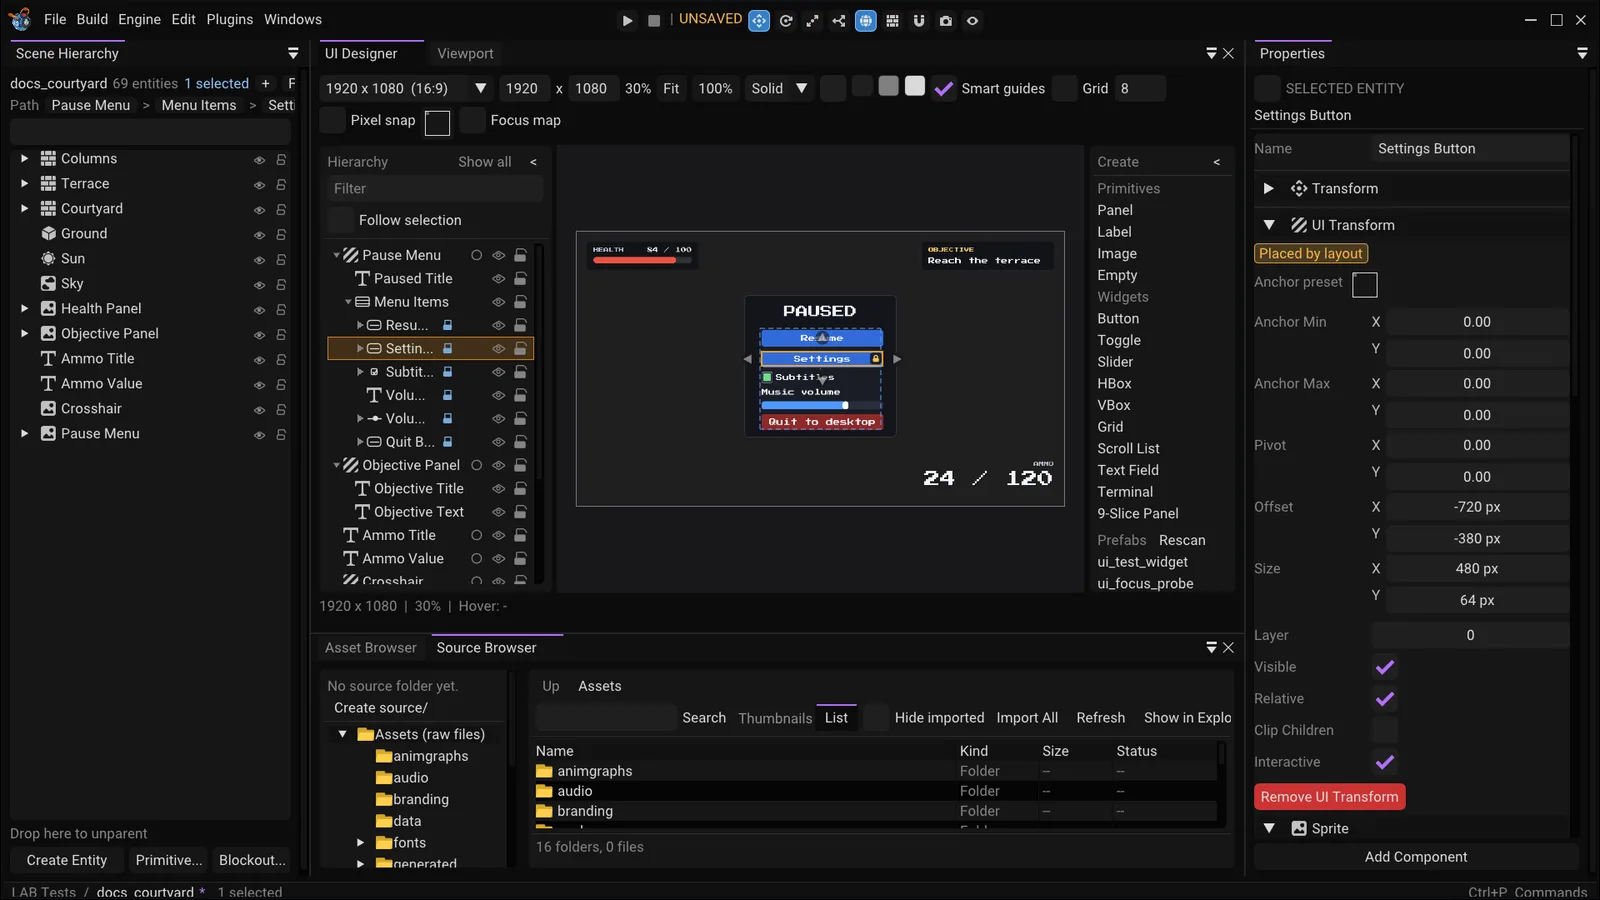
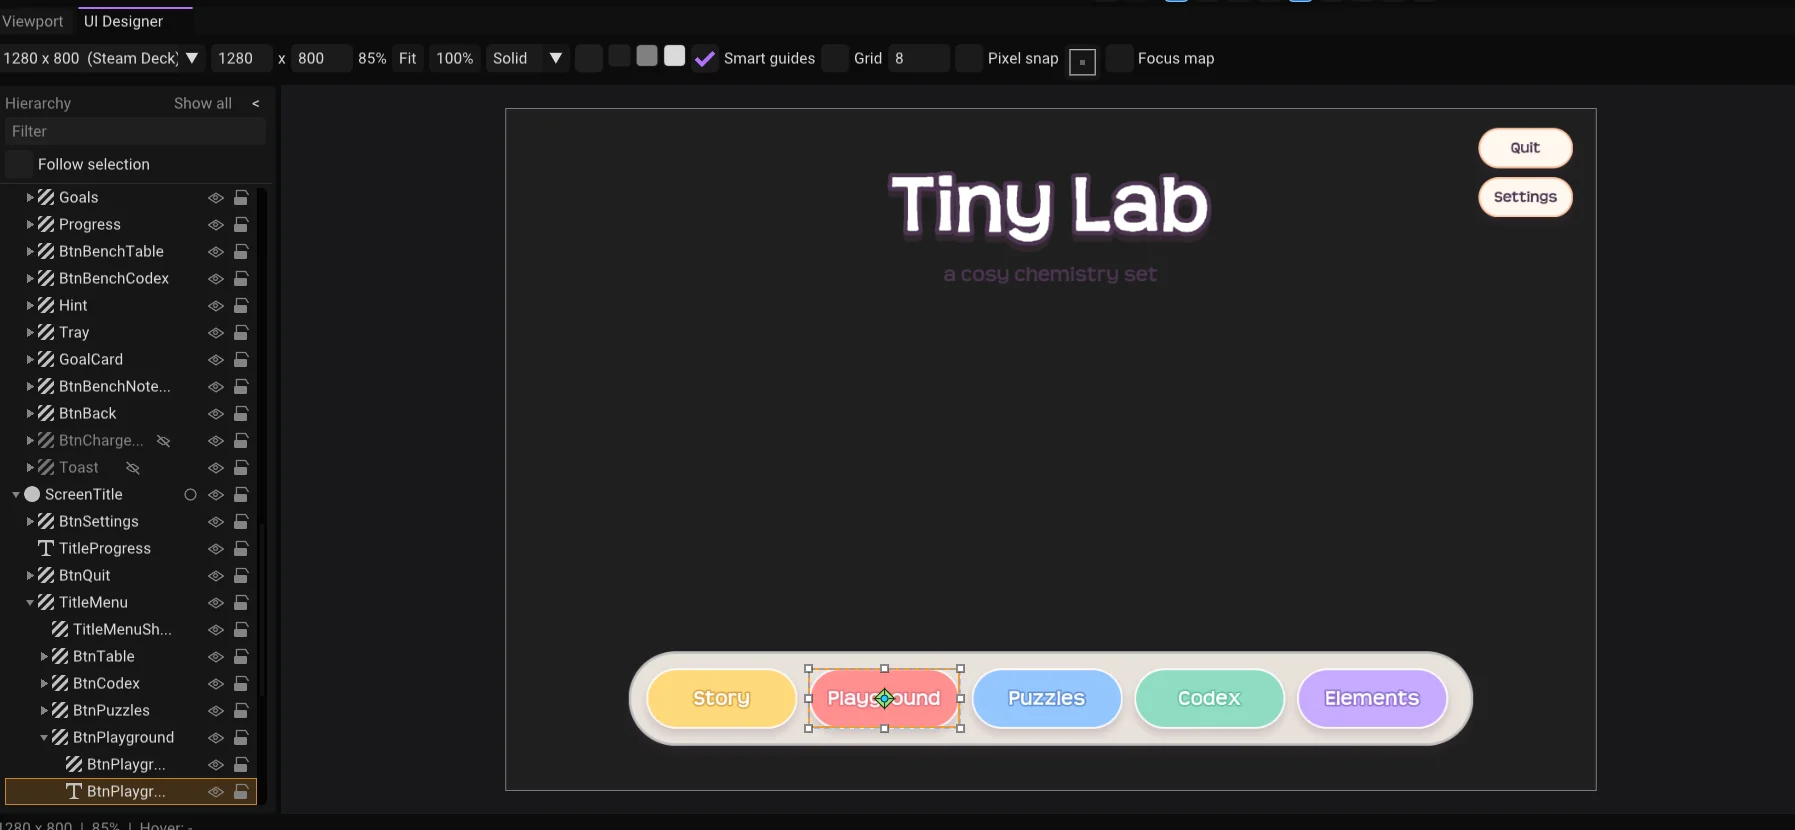
Add editor UI screenshots to the manual (batch 1)
Menus, panels, popups and inspectors where the text explains how to
use them: the File, Build, Engine, Edit, Windows and Plugins menus;
the Performance and Diagnostics panels; the viewport toolbar, Camera
and Overlays popups; the Command Palette and Keyboard Shortcuts; the
Scene Hierarchy menu, Asset Browser Engine tab, Add Component list,
Project Settings and Editor Settings (AI Agents, Network); the
Directional Light, UI Transform and UI Button inspectors; the anchor
preset picker; the Node Graph and its Add Node menu; the Blockout
Tools panel; and a particle emitter. Replace the UI Designer overview
with a title screen being laid out.

diff --git a/content/01-getting-started/02-editor.md b/content/01-getting-started/02-editor.md
@@ -22,6 +22,9 @@ command.
 
 ### File
 
+![The File menu open](images/file-menu.webp)
+*The File menu.*
+
 | Item | Notes |
 |---|---|
 | New Project… / Open Project… | See [Projects & Builds](../07-projects-and-tools/01-projects-and-builds.md) |
@@ -80,11 +83,17 @@ opens. A `latest.Lscene` left by an older editor is offered once and then moved 
 
 ### Build
 
+![The Build menu open: Build Standalone, Game Module and Input Actions](images/build-menu.webp)
+*The Build menu.*
+
 **Build Standalone…** packages the runtime, the compiled shaders and your project's assets
 into a folder that runs without the editor. Covered in
 [Projects & Builds](../07-projects-and-tools/01-projects-and-builds.md).
 
 ### Engine
+
+![The Engine menu open: Reload Shaders and a ticked Ray Tracing item](images/engine-menu.webp)
+*The Engine menu.*
 
 - **Reload Shaders** — rebuilds every pipeline from the `.spv` files on disk. It reads
   SPIR-V and does *not* invoke a compiler, so run `scripts/Build-Shaders.ps1` first. A file
@@ -96,6 +105,9 @@ into a folder that runs without the editor. Covered in
   panel you open to *measure* into one that changes what it measures.
 
 ### Edit
+
+![The Edit menu open: Undo Delete Entity, Redo, Copy, Duplicate, Delete and Paste with their shortcuts](images/edit-menu.webp)
+*The Edit menu. Undo and Redo name the action they apply to.*
 
 Undo, Redo, Copy, Duplicate, Delete, Paste. The Undo and Redo entries name what they will
 actually undo ("Undo Move Entity"), which is usually faster than guessing. **Editing is
@@ -130,6 +142,9 @@ Every panel toggle lives here, plus two commands that just open rather than togg
 - **ImGui Demo** — the vendored ImGui's own demo window. Not part of LAB; useful only for
   seeing what a widget looks like in isolation.
 
+![The Windows menu open, with ticks beside the open panels](images/windows-menu.webp)
+*The Windows menu: a tick marks each panel that is open.*
+
 ## The Performance panel
 
 Frame time (current, average, median, 99th percentile — the one that actually predicts a
@@ -138,6 +153,9 @@ two CPU stalls in `BeginFrame`, draw calls and triangle counts, cache sizes (mat
 descriptor sets, cached textures, shared meshes), and render target resolution. **Copy
 report** puts all of it on the clipboard as text, for comparing two runs without retyping
 numbers off the screen.
+
+![The Performance panel showing frame-time numbers, a frame-time graph, GPU pass timings, CPU waits, submission and scene counts](images/performance-panel.webp)
+*The Performance panel: frame-time percentiles and graph, then GPU passes, CPU waits, submission and scene counts.*
 
 **Turn VSync off before you believe any number here.** With it on, everything looks free
 because the frame is waiting on the display either way — see Diagnostics, below.
@@ -152,6 +170,9 @@ six. Invaluable when something looks wrong and you cannot tell whether the fault
 geometry, normals or lighting — see [Troubleshooting](../07-projects-and-tools/05-troubleshooting.md).
 
 ## The Diagnostics panel
+
+![The Diagnostics panel with Presentation, Capture and Editor state expanded](images/diagnostics-panel.webp)
+*The Diagnostics panel: Presentation, Capture (screenshot and video recording), GI Reference, Steam and Editor state.*
 
 - **Presentation** — **VSync** (off is what you want before judging any renderer change;
   on is the default and pins the frame rate to the display refresh) and **HDR10 output**
@@ -215,6 +236,9 @@ Drag a row onto another to reparent it. Right-click a row for:
 - **Save as Object…** — write this entity and its children out as a reusable `.Lobj`
 - **Delete Entity**
 
+![The Scene Hierarchy with a right-click menu open on a row: Add Child, Open Mesh in Blender, Save as Object and Delete Entity](images/scene-hierarchy-menu.webp)
+*Right-click a row for its menu. This entity is at the root, so the menu has no Unparent.*
+
 Toggle with `F5`.
 
 ### Properties
@@ -244,6 +268,9 @@ the tree choose which tree that is:
   Blender entries are not offered, and a script or an MCP tool that tries the same is refused the same way.
   **Duplicate to Project** (the context menu, or Paste after Copy) copies a file or a folder into the
   project's current folder as assets of their own, with new GUIDs, so you can change them.
+
+![The Asset Browser on its Engine tab, in Thumbnails view, showing the Capsule, Cone, Cube, Cylinder, Plane and Sphere meshes](images/asset-browser-engine.webp)
+*The Asset Browser's Engine tab: the primitives that ship with the engine, read-only.*
 
 Each tab remembers the folder it was in. Favourites and recent assets work in both; an engine item is
 remembered as its `engine:` reference. **It lists only native assets** — the things the engine actually loads
@@ -283,6 +310,9 @@ dropped onto a slot is stored as an `engine:` reference, never as a file path (s
 Toggle with `F2`.
 
 ### Project Settings
+
+![The Project Settings window: a category list on the left and the General page on the right](images/project-settings.webp)
+*Project Settings: the categories on the left, the General page on the right.*
 
 Project name and version, the asset directory, the start scene, **scene physics** (gravity,
 gravity scale, terminal velocity), the standalone build's executable name, the runtime

diff --git a/content/01-getting-started/03-viewport.md b/content/01-getting-started/03-viewport.md
@@ -28,6 +28,9 @@ for the editor camera: increase it to lift a dark HDR scene, or lower it to pres
 highlights. It affects editor view only; Play mode uses the exposure on the active scene
 camera.
 
+![The Camera Settings popup: FOV Degrees, Near Clip, Far Multiplier, Exposure, Camera Position with Copy and Paste Position, and Movement Speed](images/camera-popup.webp)
+*The Camera popup: lens, Exposure, the camera's position (with Copy Position and Paste Position) and Movement Speed.*
+
 ## Selecting
 
 | Gesture | Result |
@@ -116,6 +119,9 @@ The transform gizmo appears on the primary selection.
 (The gizmo uses `T`/`R`/`Y` rather than the more usual `W`/`E`/`R` because `W` and `A`/`S`/`D`
 are the camera.)
 
+![The viewport toolbar: Play and Stop, then the gizmo, snapping, Camera and Overlays buttons](images/viewport-toolbar.webp)
+*The viewport toolbar. Play and Stop come first; the buttons after them set the gizmo mode and frame, snapping, and open the Camera and Overlays popups.*
+
 **Local / World** switches the gizmo's frame. The gizmo always *manipulates* in world space,
 so dragging a child moves it where the mouse says rather than in its parent's rotated frame;
 what gets stored is still a local transform, rebased against the parent.
@@ -154,6 +160,9 @@ overlay left on is not a silent surprise — opens a popup with:
   width. It draws through occluders on purpose, so you can see a selection behind a wall;
   turn it off when you are lining up a shot. The setting is stored per user and survives a
   restart.
+
+![The Overlays popup: switches for Grid, Splines, Blockout brushes, Colliders, Skeletons, DDGI volume and probes, Acoustic Rays and NavMesh, then Debug views, Selection outline settings and Entity icons](images/overlays-popup.webp)
+*The Overlays popup: the overlay switches, a debug view, the selection outline and the entity icons.*
 
 ## Dropping assets
 

diff --git a/content/02-building-worlds/02-components.md b/content/02-building-worlds/02-components.md
@@ -435,6 +435,9 @@ A stream or burst of camera-facing billboarded quads — smoke, sparks, a muzzle
 Particles only simulate while playing, exactly like physics, so nothing moves until you
 press Play.
 
+![A textured particle emitter spraying an arc of particles over two ramps](images/particle-emitter.webp)
+*A Particle Emitter with a texture, while playing.*
+
 | Field | Default | Meaning |
 |---|---|---|
 | Enabled | on | A paused emitter keeps whatever particles already exist but spawns no more |
@@ -1213,6 +1216,9 @@ Slider, Terminal and layout containers in [UI Widgets](../05-ui/03-ui-widgets.md
 [Blockout Tools](05-blockout-tools.md).
 
 ## Adding a component
+
+![The Add Component list: rendering components, Script, physics components, UI components, lights, audio, particles, splines and blockout](images/add-component-menu.webp)
+*The Add Component list, grouped by kind.*
 
 **Properties → Add Component** offers, in this order: Mesh Component, Native Script, Skeletal Mesh Component, Animator Component, AI Controller, Socket Attachment Component, Ragdoll Component, Morph Targets, Material Component, Camera Component, Renderer Settings, DDGI Volume, Reflection Capture, Scene Capture, NavMesh Volume, Nav Link, Script, Rigid Body, Collider, Constraint, Character Controller, Nav Agent, UI Transform, Sprite, Text, UI Line, UI Button, UI Toggle, UI Slider, UI Scroll List, UI Scrollbar, UI Focus, UI Focus Scope, UI Text Field, UI Terminal, UI Layout, UI Layout Element, Ambient Light, Sky, HDRI Environment, Fog, Directional Light, Point Light, Spot Light, Persistent, Network Identity, Audio Source, Audio Listener, Particle Emitter, Spline, Spline Mesh, Blockout Model, Blockout Brush, Blockout Operation. Most items are hidden once the entity already has that component, since
 adding one replaces it with a fresh default; a few (Constraint, Character Controller) are also

diff --git a/content/05-ui/01-hud.md b/content/05-ui/01-hud.md
@@ -73,6 +73,9 @@ The three panels that matter:
 - **Text** holds the multi-line Text box (Enter starts a new line), Color, Font Size, Alignment,
   Vertical, Wrap, Rich Text, Line Spacing, Outline, Outline Color, Shadow Offset and Shadow Color.
 
+![A UI Transform in Properties: Anchor preset, Anchor Min, Anchor Max, Pivot, Offset, Size, Layer, and the Visible, Relative, Clip Children and Interactive toggles, with a Sprite below](images/ui-transform-inspector.webp)
+*A UI Transform anchored to the top-right corner (Anchor Min and Max at 1, 0), with its Sprite below.*
+
 ## UI Transform
 
 | Field | Default | Meaning |
@@ -151,6 +154,9 @@ the grid, which is remembered between elements:
 | Keep rect | stays exactly where it is on screen | preset's | unchanged | recomputed to compensate |
 | Keep rect + set pivot | stays where it is | preset's | preset's | recomputed |
 | Snap | moves to the preset | preset's | preset's | zeroed; a point axis keeps its Size, a stretched one fills the anchor span |
+
+![The sixteen anchor presets in a grid with Keep rect, Keep rect + set pivot and Snap underneath; hovering one shows its name, Center Right](images/anchor-preset-picker.webp)
+*The anchor presets, here from the UI Designer's right-click menu, with the three modes underneath. Hovering a preset names it.*
 
 The **Anchor Min** and **Anchor Max** fields below are the raw route: they change the anchors and
 nothing else, so an element with offsets jumps, exactly like Godot's own fields. Raising Anchor Min

diff --git a/content/07-projects-and-tools/01-projects-and-builds.md b/content/07-projects-and-tools/01-projects-and-builds.md
@@ -56,6 +56,9 @@ fine for poking at the samples, not for real work.
 | **Additional Includes** | Asset-relative files or folders to package regardless of whether a scene references them. For anything a script builds a path to at runtime — which the dependency walk cannot see — when **Package only referenced content** is on |
 | **Rendering** | The project-wide default for every Renderer Settings field: tonemapping, TAA, GTAO, Bloom, Motion Blur, Depth of Field, Retro Resolution, ReSTIR direct illumination, and the whole Ray Tracing section. A scene's own Renderer Settings component (see [Components](../02-building-worlds/02-components.md#renderer-settings)) only overrides the fields it has explicitly checked; an unchecked field keeps tracking whatever is set here, including later edits — the way to tune quality once for a whole project instead of re-tuning every scene by hand. A component added fresh from the Add Component menu starts at whatever this section currently says, with nothing overridden |
 
+![The Project Settings window: a category list on the left and the General page on the right](images/project-settings.webp)
+*Project Settings (Windows → Project Settings).*
+
 Recent projects are stored per user in `%APPDATA%/LAB/editor.yaml`, deliberately not in
 any `.lab` — a recent-projects list is a property of your installation, not of the
 project, and putting it in the manifest would check one developer's history into the

diff --git a/content/06-scripting/01-visual-scripting.md b/content/06-scripting/01-visual-scripting.md
@@ -29,8 +29,14 @@ handling applies here too.
 | **Variables** | Toggle the variables sidebar |
 | **Style** | Node editor appearance. Saved with your editor preferences, not with the graph |
 
+![The Node Graph with a visual script open: On Create logs a message; On Update drives Set Scale from a sine of the elapsed time and logs through a Branch](images/node-graph-editor.webp)
+*A visual script in the Node Graph. White links carry execution, coloured links carry data.*
+
 Right-click the canvas for the **Add Node** menu, organised by category. Right-click a node
 or link to delete it.
+
+![The Add Node menu: Add Comment, a search box, and the categories Events, Flow, Actions, Entity, Objects, Scene, Physics, Input, Time, Math, Vector, Logic, String, Values, AI, Native and Network](images/add-node-menu.webp)
+*Right-click the canvas: Add Comment, a search box, and the node categories.*
 
 > While the graph editor has focus it owns `Ctrl+Z`. That is deliberate — it is a different
 > document with its own history, and one stack spanning both would undo a node edit when you

diff --git a/content/01-getting-started/05-keyboard-reference.md b/content/01-getting-started/05-keyboard-reference.md
@@ -20,6 +20,9 @@ Work anywhere in the editor, except while a text field has the keyboard.
 While the **node graph** has focus, `Ctrl+Z` / `Ctrl+Y` act on the graph's own history
 instead. Editing shortcuts are disabled while playing.
 
+![The Command Palette with 'add' typed, listing Add Cube, Add Sphere, Add Plane, Add Cylinder, Add Capsule and Add Cone under Create](images/command-palette.webp)
+*Ctrl+P opens the Command Palette. Typing filters it; here "add" narrows it to the Create commands.*
+
 ## Files
 
 | Shortcut | Action |
@@ -78,6 +81,9 @@ Require the viewport focused and something selected.
 The gizmo uses `T`/`R`/`Y` rather than `W`/`E`/`R` because `W`/`A`/`S`/`D` are the camera.
 
 ## Panels
+
+![The Keyboard Shortcuts window listing shortcuts and what they do](images/keyboard-shortcuts-window.webp)
+*Windows → Keyboard Shortcuts shows the same list inside the editor.*
 
 | Key | Toggles |
 |---|---|

diff --git a/content/05-ui/02-ui-designer.md b/content/05-ui/02-ui-designer.md
@@ -8,8 +8,8 @@ what the game will draw. It edits the same components the inspector does -- UI T
 the widget components -- so there is no separate UI file: what you make here is entities in the scene,
 saved with it, undone with `Ctrl+Z`.
 
-![The UI Designer panel showing a HUD and a pause menu on the canvas, the UI hierarchy on the left and the Create palette on the right](images/ui-designer.webp)
-*The UI Designer: the UI hierarchy, the canvas (here showing the focus-navigation arrows of the selected button) and the Create palette.*
+![The UI Designer with a game's title screen on the canvas at 1280 x 800, the UI hierarchy on the left and a selected button showing its resize handles and pivot](images/ui-designer.webp)
+*The UI Designer: the toolbar along the top, the Hierarchy on the left, and the canvas showing a title screen with one button selected.*
 
 Two rules explain most of how it behaves:
 

diff --git a/content/05-ui/03-ui-widgets.md b/content/05-ui/03-ui-widgets.md
@@ -113,6 +113,9 @@ Button's saved keys are the same as before the style was a struct).
 | Click Sound | empty | An audio clip, relative to the asset directory, played once on the **UI** audio bus when a click lands (a slider: when it is pressed) |
 | Hover Sound | empty | The same, when the pointer enters |
 
+![A UI Button in Properties: Disabled, Normal, Hover, Pressed, Disabled and Focus Tint, Fade Time, Click Sound and Hover Sound](images/ui-button-inspector.webp)
+*A UI Button in Properties: the style fields from the table above, plus Focus Tint.*
+
 **What a tint reaches.** The tint is multiplied into the colour of the entity's **own** Sprite (its
 colour and its border colour) and its **own** Text (colour, outline, shadow), the way Unity and Godot
 tint only a button's target graphic. Relative children, a label entity for one, are **not** tinted: put

diff --git a/content/02-building-worlds/05-blockout-tools.md b/content/02-building-worlds/05-blockout-tools.md
@@ -156,6 +156,9 @@ generated folder only loads where that folder exists.
 
 ## The Blockout Tools mode
 
+![The Blockout Tools panel with Tool active ticked: the Place, Edit and Clip modes, the shape buttons, Box selected, the Additive, Subtractive and Intersect buttons, and the snap settings](images/blockout-tools-panel.webp)
+*The Blockout Tools panel with the tool on: the modes, the shapes, the operation and snapping.*
+
 The **Blockout** button in the viewport toolbar (or **B** with the viewport focused) turns the mode on and
 opens the **Blockout Tools** panel, which is also in the Windows menu and the command palette. The panel
 has three tools: **Place**, **Edit** and **Clip**. Place is described here, then [Edit](#edit) and [Clip](#clip). While Place or Clip is on, the entity gizmo

diff --git a/content/03-rendering/02-lighting.md b/content/03-rendering/02-lighting.md
@@ -66,6 +66,9 @@ silently.
 | **Shadow Bias** | Depth slop, scaled by surface slope |
 | **Shadow Strength** | How dark a shadow gets. 1 is fully occluded |
 
+![A Directional Light in Properties: Elevation, Azimuth, Color, Physical Units, Intensity, Indirect Intensity, then Cast Shadows with Distance, Cascades, Bias and Strength](images/directional-light-inspector.webp)
+*A Directional Light in Properties. With Cast Shadows on, the shadow settings appear below it.*
+
 Cascades exist because one box covering everything spends the same texels on a wall two
 metres away as on a hill forty metres off — which is why a single map is either sharp up
 close or useful at range and never both. With three cascades, the nearest tenth of the

diff --git a/content/01-getting-started/01-first-steps.md b/content/01-getting-started/01-first-steps.md
@@ -34,6 +34,9 @@ From the menu bar:
   in `%APPDATA%/LAB/editor.yaml`, not in any project, so it never ends up in version
   control.
 
+![The File menu open: New Project, Open Project, Open Recent, Save Project, Close Project, then the scene commands](images/file-menu.webp)
+*The File menu: the project commands at the top, the scene commands below.*
+
 Without a project open, the editor starts on the engine's default scene (a ground plane
 with the checker, a cube, a sun and a sky). That scene belongs to the engine and is
 read-only: Save asks where to put your copy. It works for poking around, but make a project
